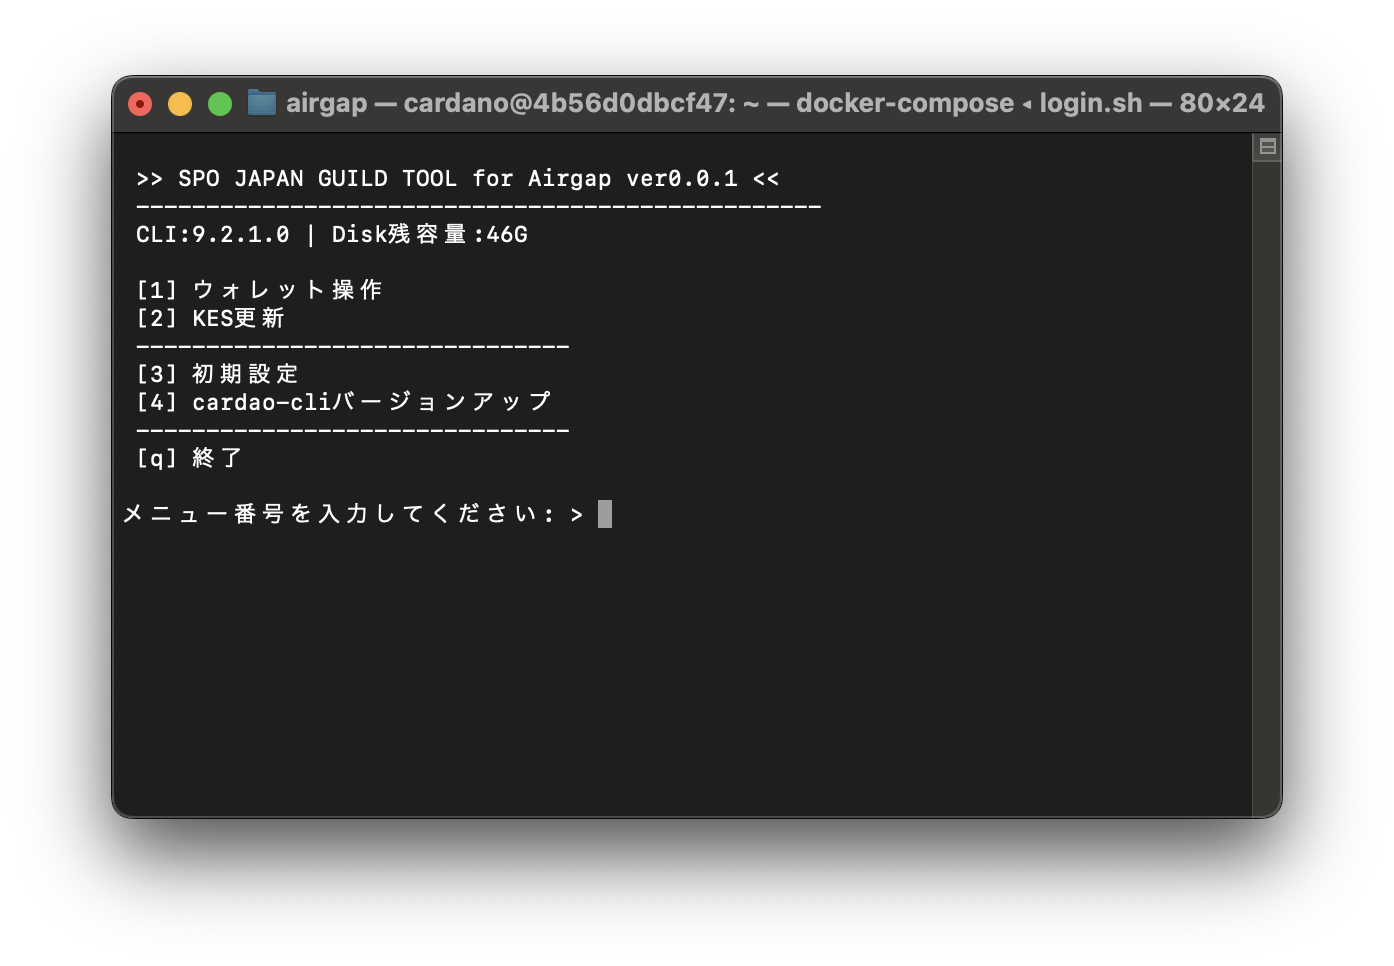
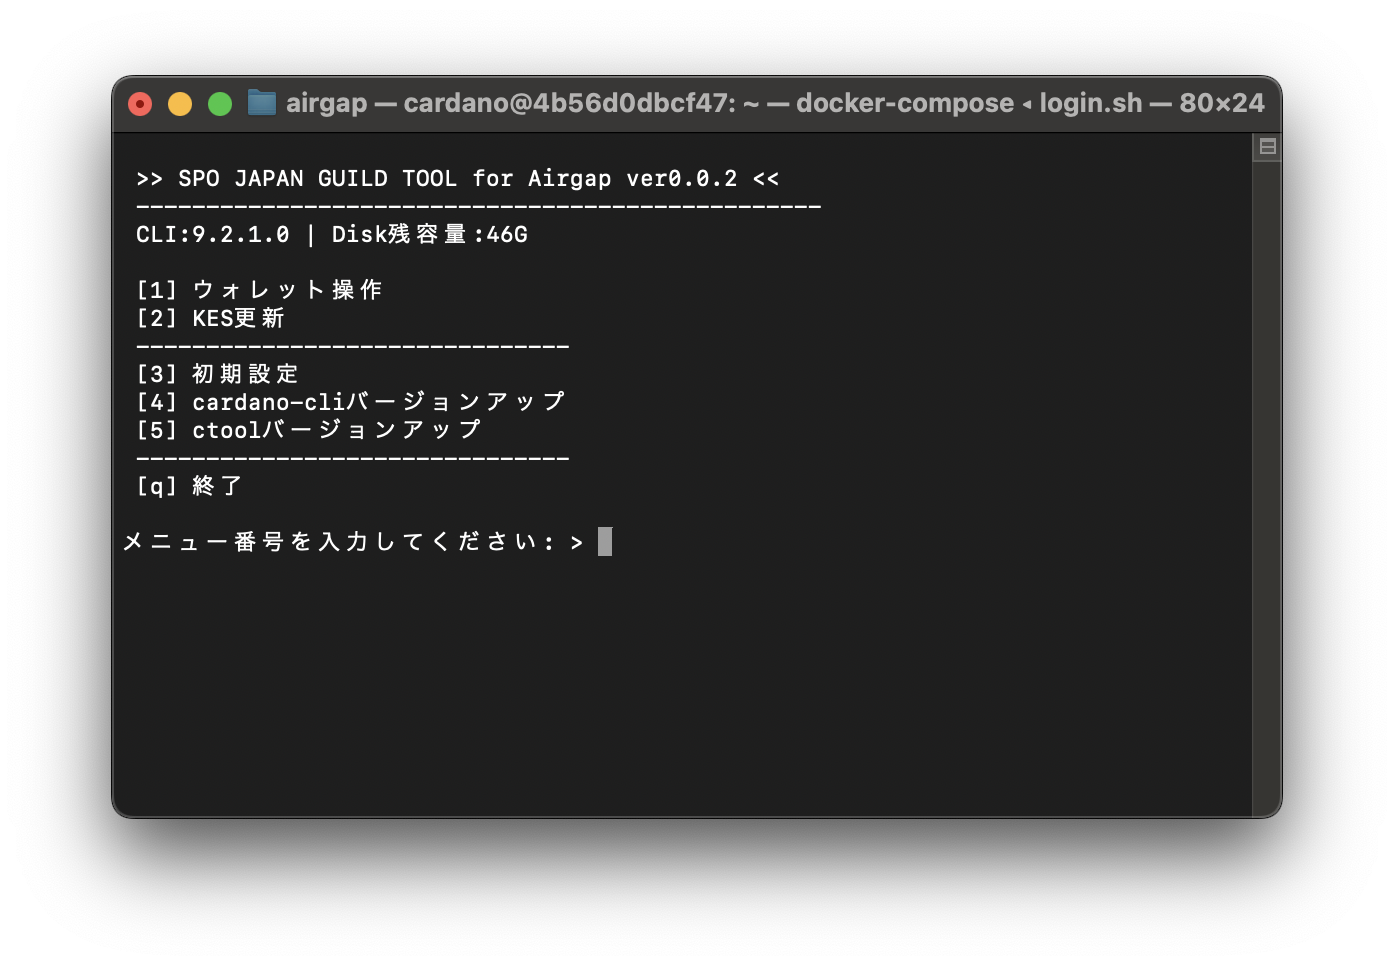
画像の追加とハッシュ値の更新

Changed region(s): [[0.0925, 0.4037, 0.4627, 0.5901]]

diff --git a/docs/setup/docker-air-gap-guid.md b/docs/setup/docker-air-gap-guid.md
@@ -1,9 +1,17 @@
 # **エアギャップマシン作成(Docker版)**
 
+!!! danger "注意"
+    このマニュアルはα版です！
+
+    また、Windows環境についてはまだ対応しておりません！
+
+
+
 !!! summary "エアギャップマシンとは？"
     プール運営で使用するウォレットの秘密鍵やプール運営の秘密鍵をオフライン上で管理し、エアギャップオフラインマシンでCLIを起動しトランザクションファイルに署名する作業に使用します。
     
     * ウォレットの秘密鍵やプール運営の秘密鍵をプール運営のオンラインマシン上に保管すると、ハッキングなどの際に資金盗難のリスクがあります。
+
 
 !!! summary "Dockerとは？"
     コンテナという技術を使用して...
@@ -22,7 +30,7 @@
 !!! info "ダウンロード/インストール"
     
     * Docker Desktop
-    * airgap-1.0.5.tar.gz
+    * airgap-1.x.x.tar.gz
 
 ## **1- Docker Desktop のインストール**
 
@@ -67,6 +75,8 @@
         **インストール**
     
         ダウンロードした `Docker.dmg` をダブルクリックしてインストールします。
+
+        ![Docker Desktop Installer](../images/docker-airgap/mac/docker-desktop-installer.png)        
     
         ![Docker Desktop Install](../images/docker-airgap/mac/docker-desktop-install.png)
 
@@ -156,7 +166,7 @@
     ```Bash    
     shasum -a 256 airgap.tar.gz
     ```
-    > 9914f544f326e8c50919d013cab202452b92b71f03d0914c5906fe3fec2a6ae8
+    > 128e37d7801ea7062884f34e558bc710dc50efafcf84fdc3426ca661edaba192
     
     
     3-6. ダウンロードファイルの解凍
@@ -219,9 +229,13 @@ cardano-cli version
 ```
 
 
-おめでとうございます🎉
-これでエアギャップが構築されました！
+**おめでとうございます🎉
+これでエアギャップが構築されました！**
 
+あとはキーをエアギャップにキーを設定するとエアギャップとして機能するようになります！
+
+!!! danger "注意"
+    ここからネットワークから切断する事を強くお勧めいたします。
 
 ### 4-4. コールドキーを準備
 
@@ -288,7 +302,7 @@ exit
     gtoolのエアギャップ専用版です。
     gtoolと連動してより簡単に操作ができるようにし、操作ミスを減らせるように開発しています。
 
-
+![ctool](../images/docker-airgap/mac/ctool.png)
 
 
 ### **8-2. cardano-cliのバージョンアップ**
